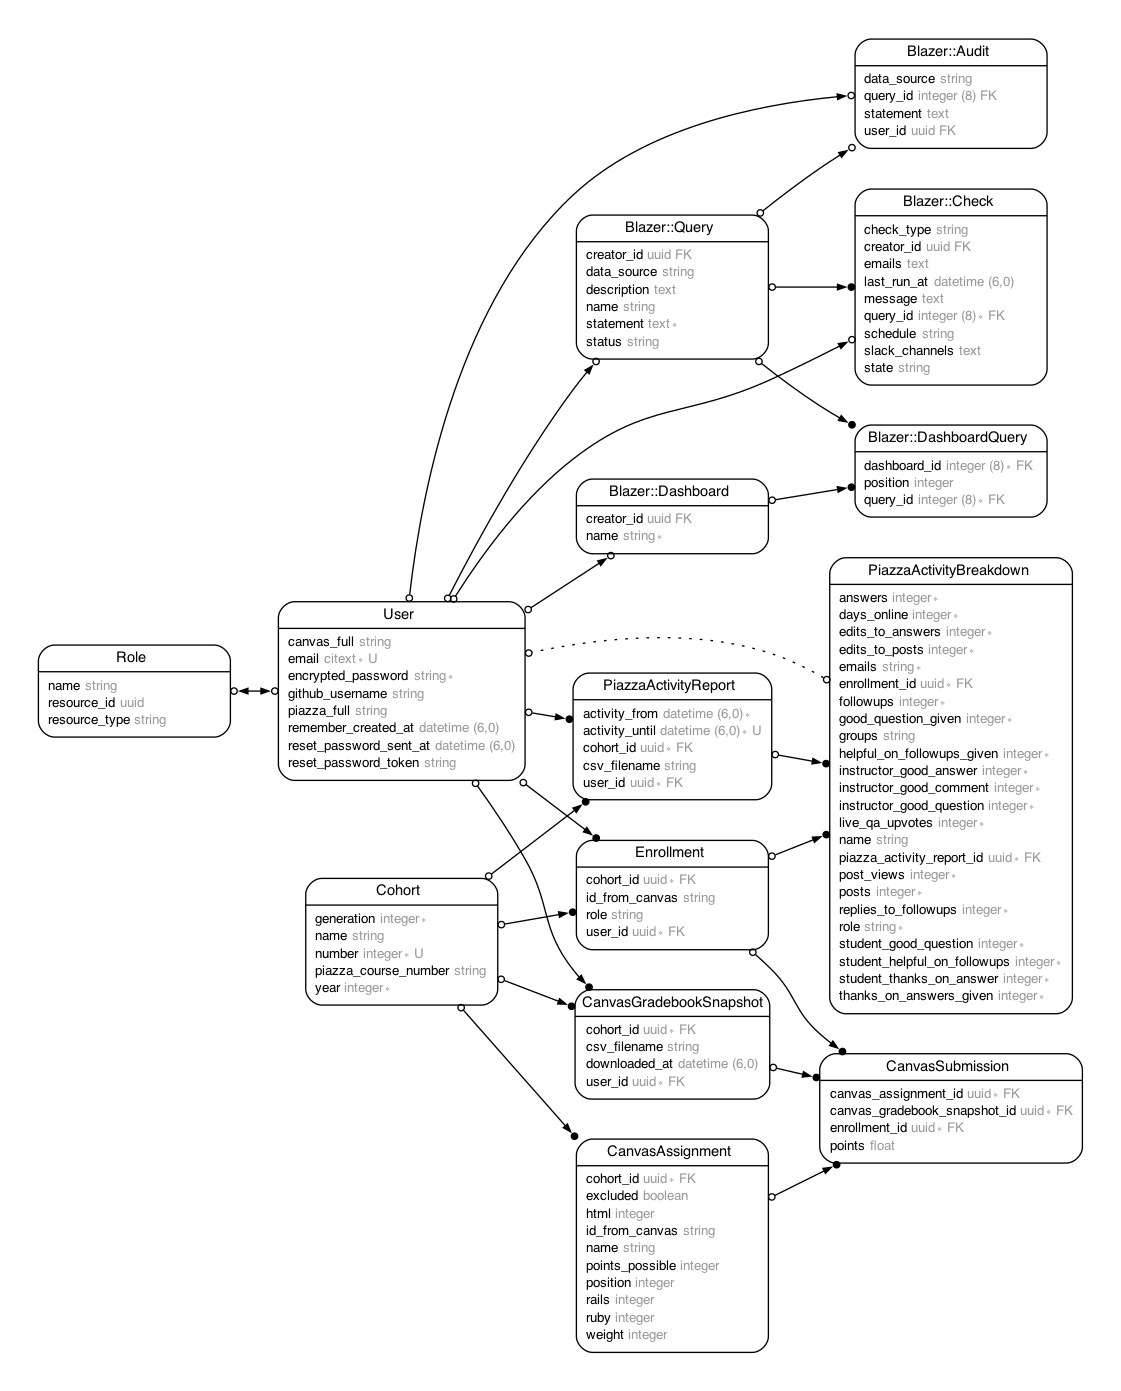
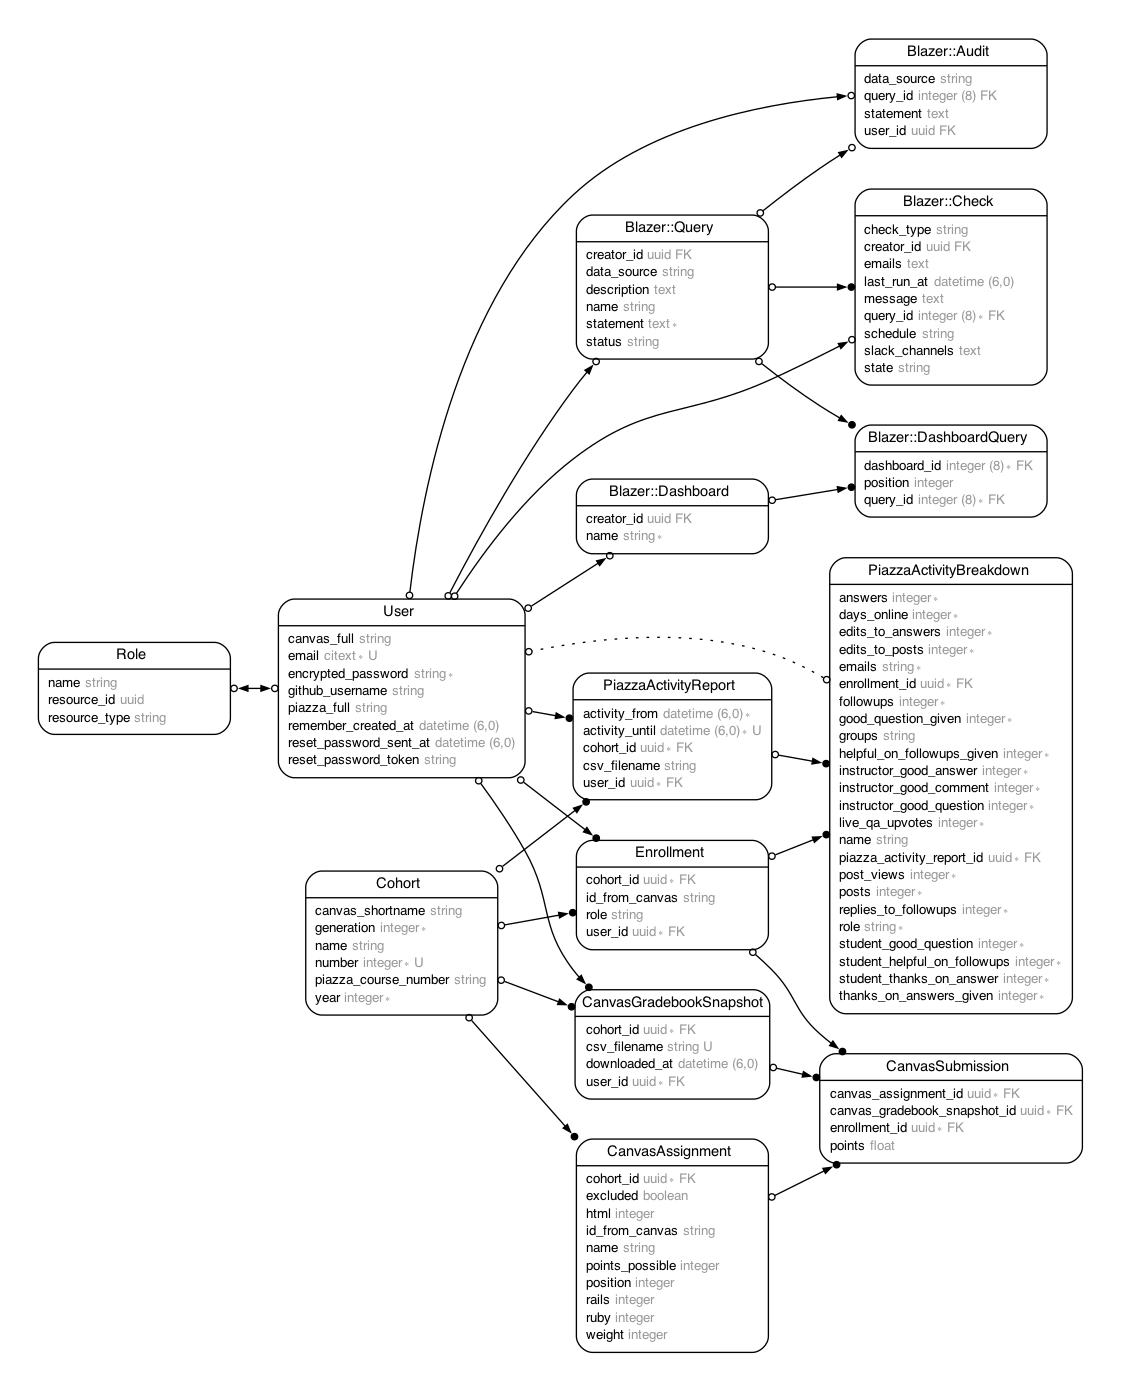
Add canvas shortname to cohort and validate that canvas gradebook snapshot files match canvas shortname.

Changed region(s): [[0.2498, 0.371, 0.4996, 0.7419], [0.0312, 0.4637, 0.2186, 0.5255]]

diff --git a/db/schema.rb b/db/schema.rb
@@ -10,7 +10,7 @@
 #
 # It's strongly recommended that you check this file into your version control system.
 
-ActiveRecord::Schema[7.0].define(version: 2023_03_30_174513) do
+ActiveRecord::Schema[7.0].define(version: 2023_03_30_214017) do
   # These are extensions that must be enabled in order to support this database
   enable_extension "citext"
   enable_extension "pgcrypto"
@@ -119,6 +119,7 @@ ActiveRecord::Schema[7.0].define(version: 2023_03_30_174513) do
     t.string "piazza_course_number"
     t.datetime "created_at", null: false
     t.datetime "updated_at", null: false
+    t.string "canvas_shortname"
   end
 
   create_table "enrollments", id: :uuid, default: -> { "gen_random_uuid()" }, force: :cascade do |t|

diff --git a/db/seeds.rb b/db/seeds.rb
@@ -29,19 +29,22 @@ Rails.logger.debug Cohort.create(
       year: 2022,
       generation: 1,
       number: 1,
-      name: "The Pioneers"
+      name: "The Pioneers",
+      canvas_shortname: "WE-2022-1.1-SDF"
     },
     {
       year: 2023,
       generation: 1,
       number: 1,
-      name: "Hash Rockets"
+      name: "Hash Rockets",
+      canvas_shortname: "WE-2023-1.1-SDF"
     },
     {
       year: 2023,
       generation: 2,
       number: 1,
-      name: "Fullstack Pancakes"
+      name: "Fullstack Pancakes",
+      canvas_shortname: "WE-2023-2.1-SDF"
     }
   ]
 )

diff --git a/app/models/concerns/canvas_gradebook_snapshot/csvable.rb b/app/models/concerns/canvas_gradebook_snapshot/csvable.rb
@@ -3,8 +3,10 @@ module CanvasGradebookSnapshot::Csvable
 
   included do
     attr_accessor :csv_file
+
     validates :csv_file, presence: true
-    validates :csv_filename, uniqueness: true
+    validates :csv_filename, uniqueness: true, format: { with: ->(canvas_gradebook_snapshot) { /\A.*#{Regexp.escape(canvas_gradebook_snapshot.cohort.canvas_shortname)}.*\z/ }, message: "must contain canvas shortname belonging to this cohort" }
+
     before_validation :process_csv_filename
     after_create :process_csv
   end

diff --git a/app/models/cohort.rb b/app/models/cohort.rb
@@ -3,6 +3,7 @@
 # Table name: cohorts
 #
 #  id                   :uuid             not null, primary key
+#  canvas_shortname     :string
 #  generation           :integer          not null
 #  name                 :string
 #  number               :integer          not null

diff --git a/spec/models/cohort_spec.rb b/spec/models/cohort_spec.rb
@@ -3,6 +3,7 @@
 # Table name: cohorts
 #
 #  id                   :uuid             not null, primary key
+#  canvas_shortname     :string
 #  generation           :integer          not null
 #  name                 :string
 #  number               :integer          not null

diff --git a/db/migrate/20230330214017_add_canvas_shortname_to_cohorts.rb b/db/migrate/20230330214017_add_canvas_shortname_to_cohorts.rb
@@ -1,0 +1,5 @@
+class AddCanvasShortnameToCohorts < ActiveRecord::Migration[7.0]
+  def change
+    add_column :cohorts, :canvas_shortname, :string
+  end
+end
